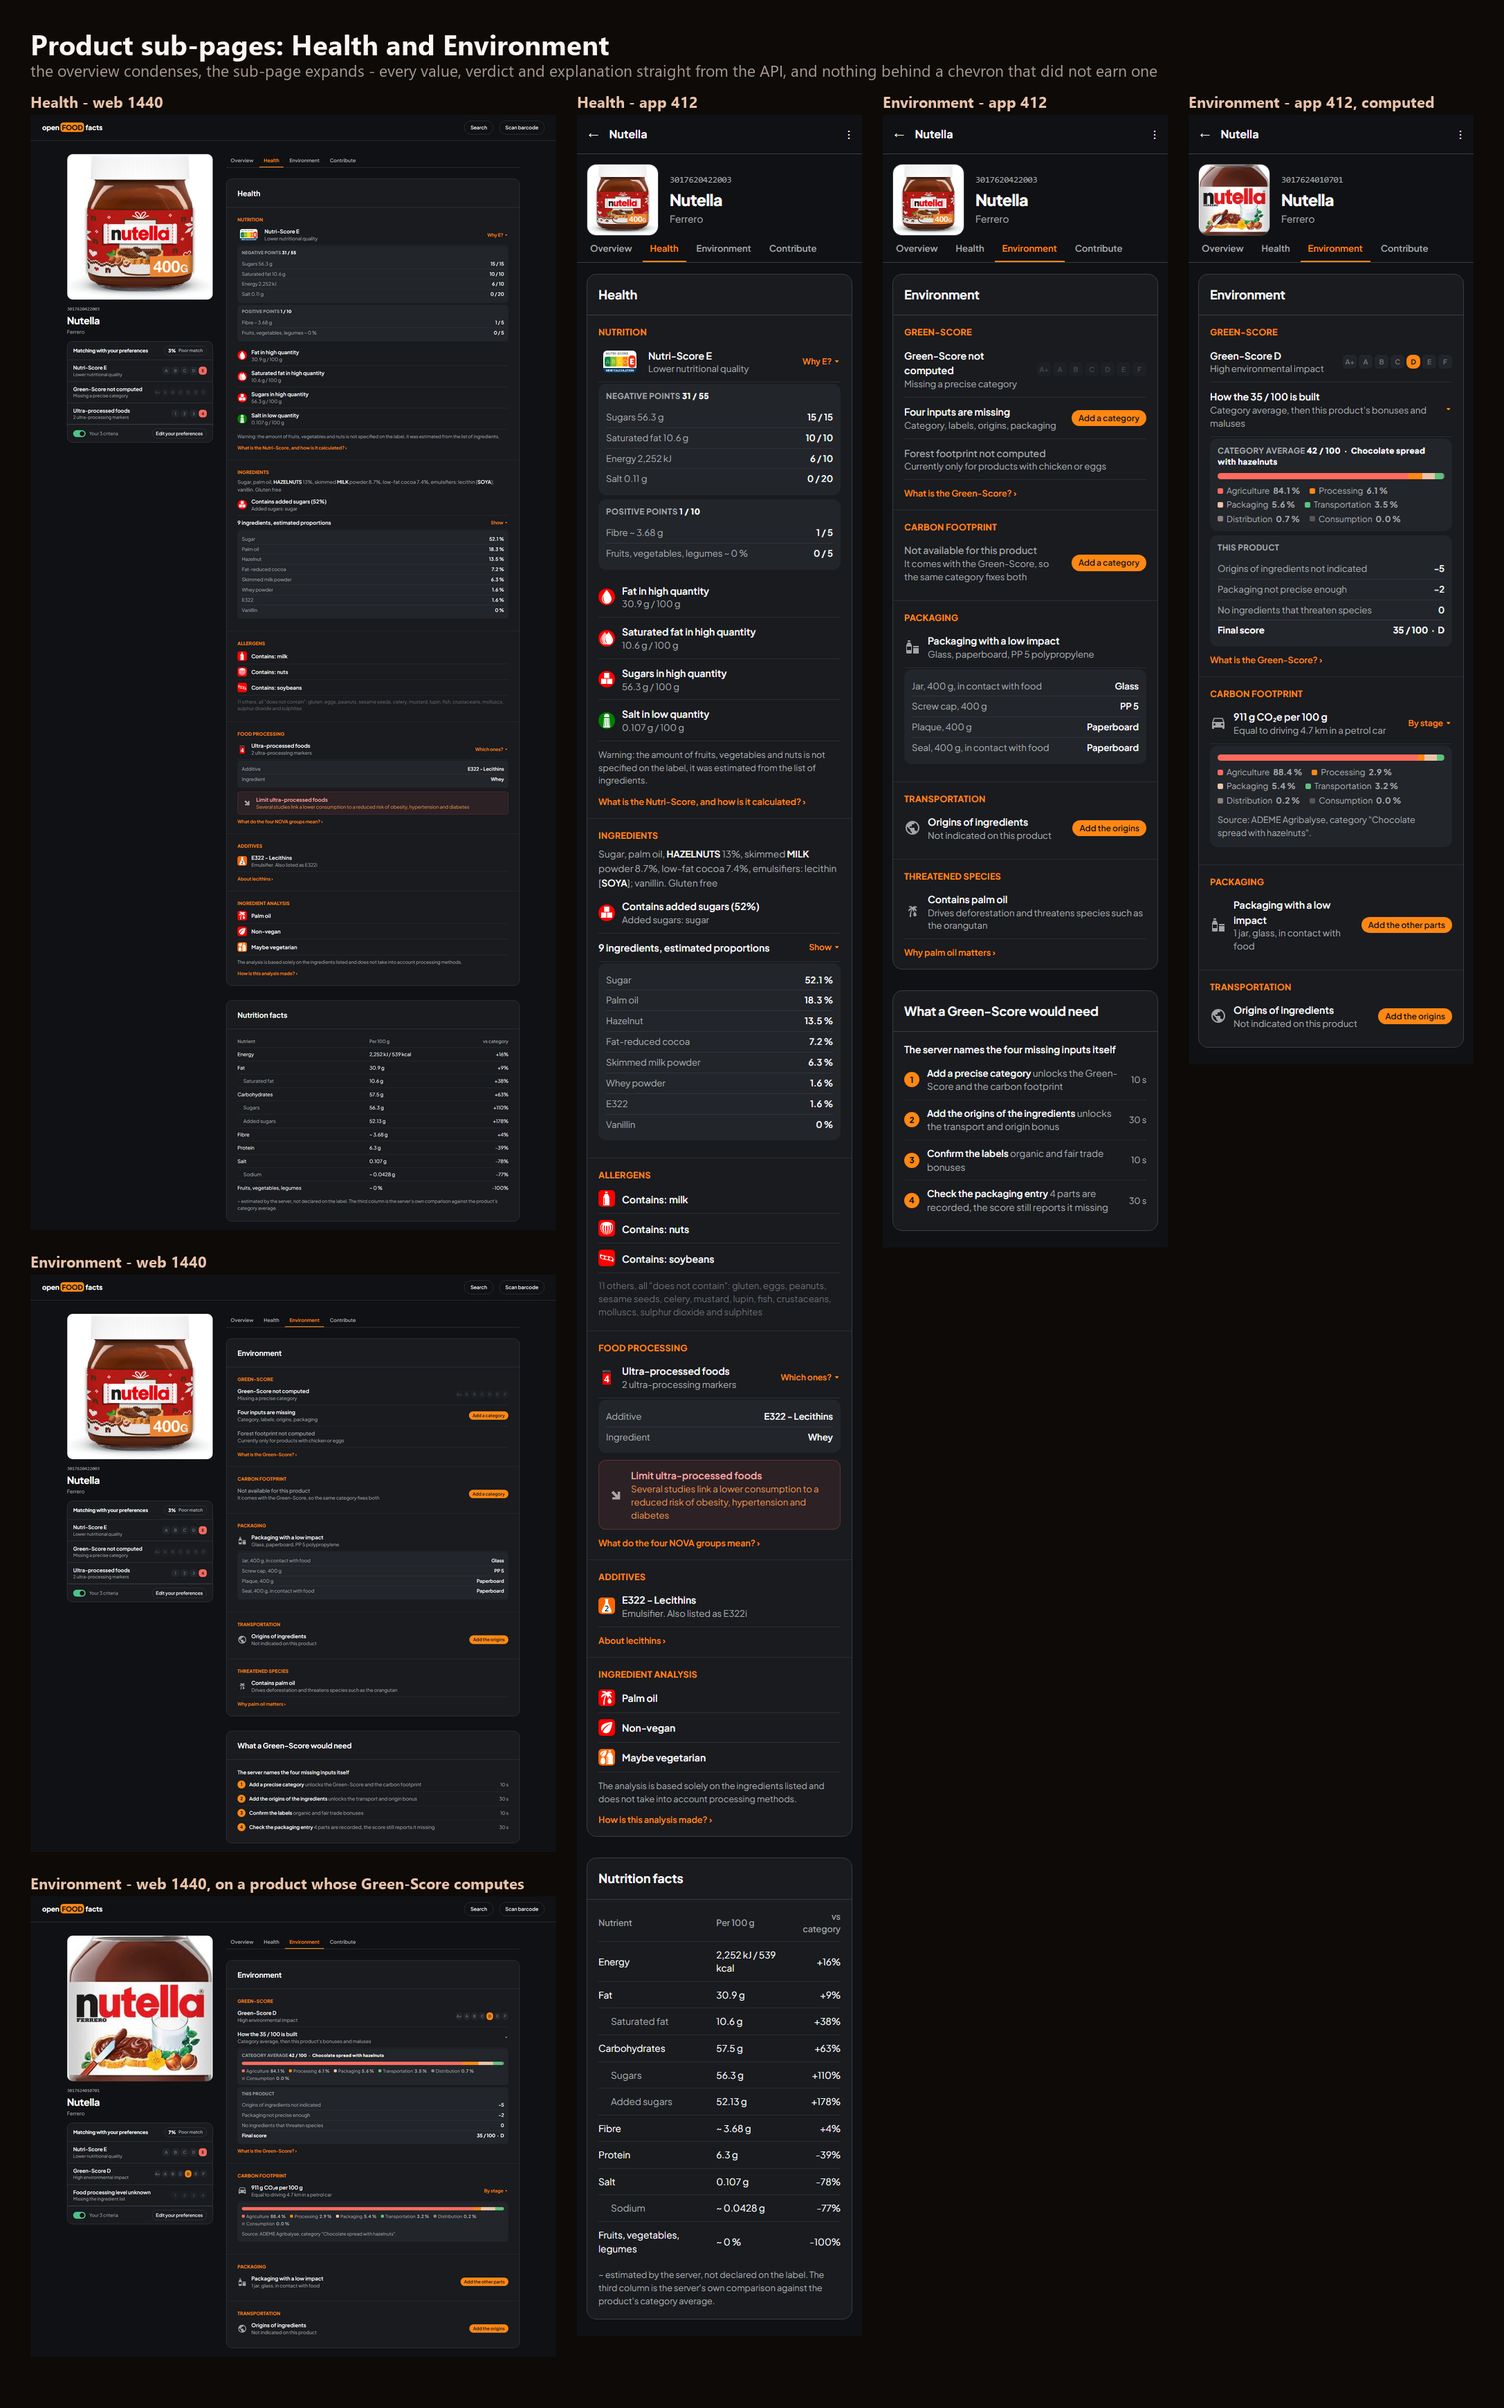
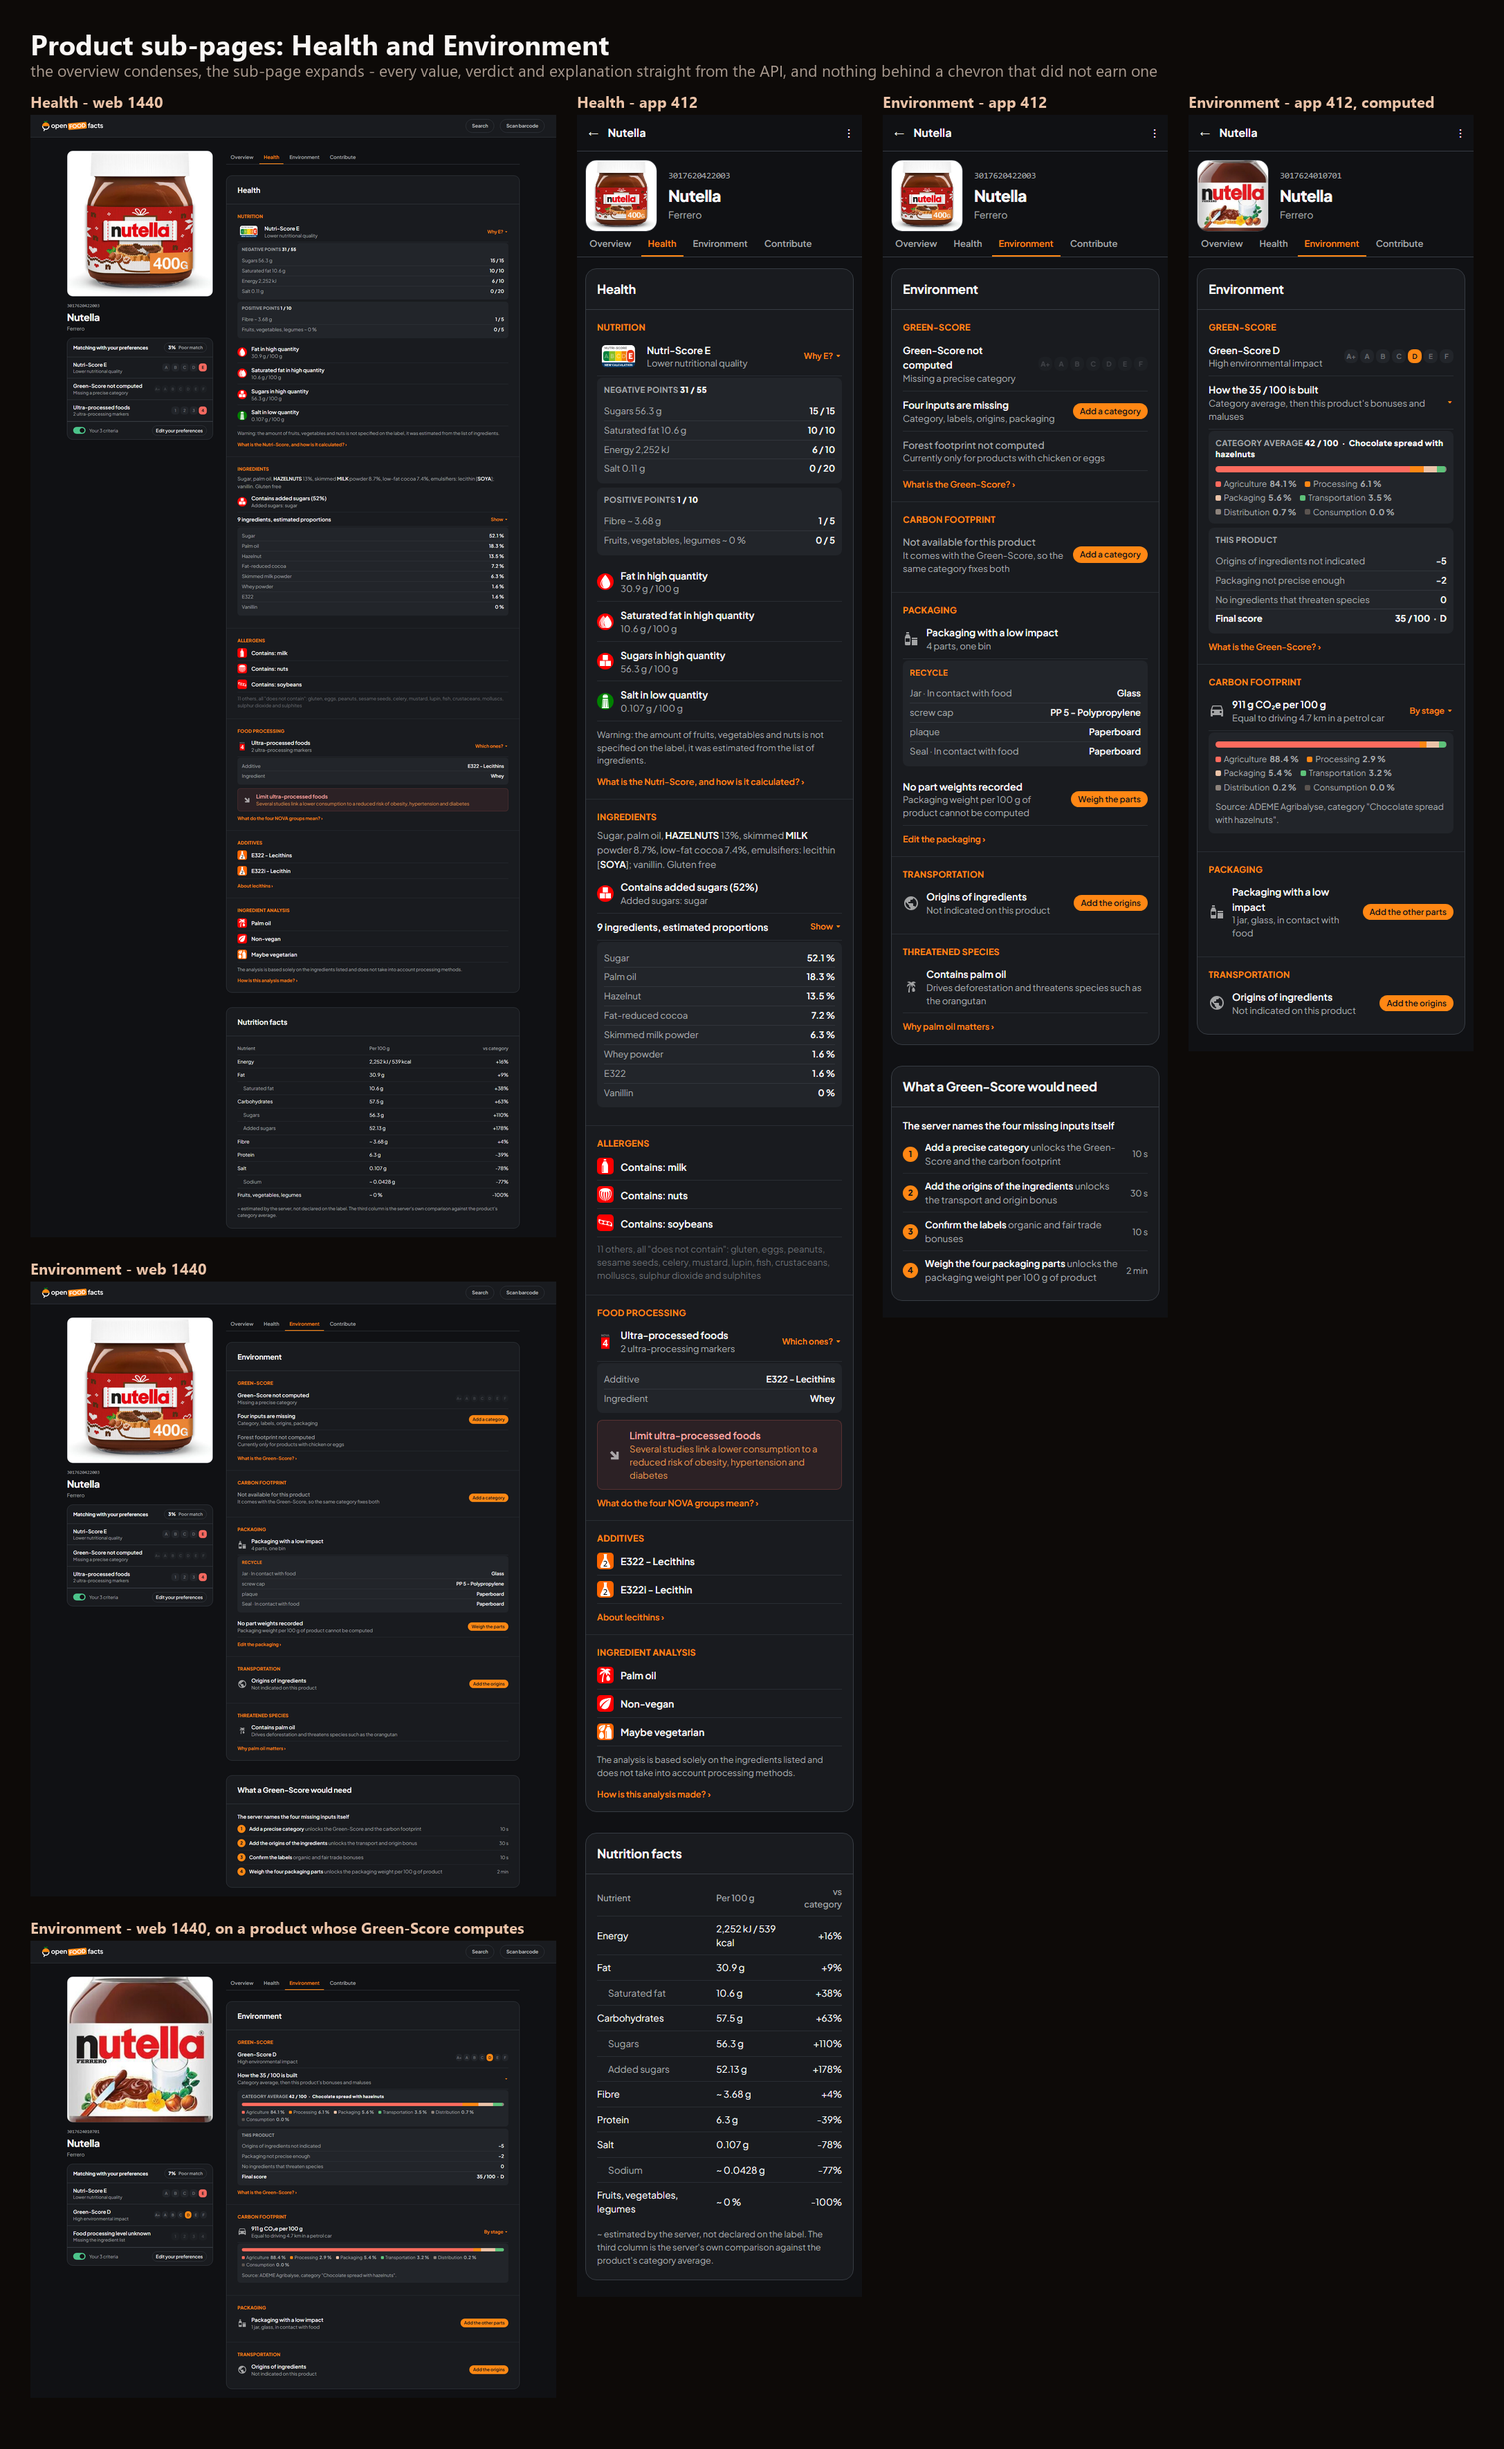
Packaging: fold the redrawn Environment pane into 02-product-subpages and drop the duplicate page

diff --git a/02-product-subpages/v2-environment.html b/02-product-subpages/v2-environment.html
@@ -103,16 +103,24 @@
           <div class="lbl">PACKAGING</div>
           <div class="row">
             <img class="ic mono" src="https://static.openfoodfacts.org/images/icons/dist/packaging.svg" alt="">
-            <span class="txt"><b>Packaging with a low impact</b><i>Glass, paperboard, PP 5 polypropylene</i></span>
+            <span class="txt"><b>Packaging with a low impact</b><i>4 parts, one bin</i></span>
           </div>
+
           <div class="box">
+            <span class="bin">recycle</span>
             <table class="mini">
-              <tr><td>Jar, 400 g, in contact with food</td><td>Glass</td></tr>
-              <tr><td>Screw cap, 400 g</td><td>PP 5</td></tr>
-              <tr><td>Plaque, 400 g</td><td>Paperboard</td></tr>
-              <tr><td>Seal, 400 g, in contact with food</td><td>Paperboard</td></tr>
+              <tr><td>Jar &middot; In contact with food</td><td>Glass</td></tr>
+              <tr><td>screw cap</td><td>PP 5 - Polypropylene</td></tr>
+              <tr><td>plaque</td><td>Paperboard</td></tr>
+              <tr><td>Seal &middot; In contact with food</td><td>Paperboard</td></tr>
             </table>
           </div>
+
+          <div class="row">
+            <span class="txt"><b>No part weights recorded</b><i>Packaging weight per 100 g of product cannot be computed</i></span>
+            <span class="fix">Weigh the parts</span>
+          </div>
+          <a class="learn" href="../23-packaging/packaging-edit.html">Edit the packaging &rsaquo;</a>
         </div>
 
         <div class="grp">
@@ -141,7 +149,8 @@
           <div class="task"><span class="num">1</span><span class="t"><b>Add a precise category</b> <i>unlocks the Green-Score and the carbon footprint</i></span><span class="time">10 s</span></div>
           <div class="task"><span class="num">2</span><span class="t"><b>Add the origins of the ingredients</b> <i>unlocks the transport and origin bonus</i></span><span class="time">30 s</span></div>
           <div class="task"><span class="num">3</span><span class="t"><b>Confirm the labels</b> <i>organic and fair trade bonuses</i></span><span class="time">10 s</span></div>
-          <div class="task"><span class="num">4</span><span class="t"><b>Check the packaging entry</b> <i>4 parts are recorded, the score still reports it missing</i></span><span class="time">30 s</span></div>
+          
+          <div class="task"><span class="num">4</span><span class="t"><b>Weigh the four packaging parts</b> <i>unlocks the packaging weight per 100 g of product</i></span><span class="time">2 min</span></div>
         </div>
       </div>
 

diff --git a/07-search/search-results-redline.html b/07-search/search-results-redline.html
@@ -99,7 +99,7 @@
 
       <div class="results">
 
-        <div class="res dim">
+        <div class="res faded">
           <div class="shot">
             <span class="badge bad">0%</span>
             <img src="https://images.openfoodfacts.org/images/products/316/893/001/0265/front_en.297.400.jpg" alt="">
@@ -119,7 +119,7 @@
           </div>
         </div>
 
-        <div class="res dim">
+        <div class="res faded">
           <div class="shot">
             <span class="badge bad">0%</span>
             <img src="https://images.openfoodfacts.org/images/products/730/040/048/1588/front_en.269.400.jpg" alt="">
@@ -139,7 +139,7 @@
           </div>
         </div>
 
-        <div class="res dim">
+        <div class="res faded">
           <div class="shot">
             <span class="badge bad">0%</span>
             <img src="https://images.openfoodfacts.org/images/products/304/109/006/3206/front_fr.156.400.jpg" alt="">
@@ -159,7 +159,7 @@
           </div>
         </div>
 
-        <div class="res dim">
+        <div class="res faded">
           <div class="shot">
             <span class="badge bad">0%</span>
             <img src="https://images.openfoodfacts.org/images/products/761/303/462/6844/front_fr.355.400.jpg" alt="">
@@ -179,7 +179,7 @@
           </div>
         </div>
 
-        <div class="res dim">
+        <div class="res faded">
           <div class="shot">
             <span class="badge bad">0%</span>
             <img src="https://images.openfoodfacts.org/images/products/739/437/661/6228/front_en.197.400.jpg" alt="">

diff --git a/index.html b/index.html
@@ -146,7 +146,7 @@ are still open. If you are implementing one, the screen's <code>design-brief.md<
 </section>
 <section>
 <h2>Packaging</h2>
-<p class="open">Open it at your own size: <a class="live" href="23-packaging/packaging-parts.html">packaging-parts.html</a><a class="live" href="23-packaging/packaging-full.html">packaging-full.html</a><a class="live" href="23-packaging/packaging-none.html">packaging-none.html</a><a class="live" href="23-packaging/packaging-edit.html">packaging-edit.html</a><a class="live" href="23-packaging/packaging-edit-sheet.html">packaging-edit-sheet.html</a></p>
+<p class="open">Open it at your own size: <a class="live" href="23-packaging/packaging-full.html">packaging-full.html</a><a class="live" href="23-packaging/packaging-none.html">packaging-none.html</a><a class="live" href="23-packaging/packaging-edit.html">packaging-edit.html</a><a class="live" href="23-packaging/packaging-edit-sheet.html">packaging-edit-sheet.html</a></p>
 <a href="img/POST-packaging.png"><img src="img/POST-packaging.png" alt="Packaging"></a>
 </section>
 <section>

diff --git a/09-settings/mock.css b/09-settings/mock.css
@@ -12,7 +12,7 @@
 .setrow .t i { font-style: normal; display: block; color: var(--muted); font-size: 12.5px; }
 .setrow .t em { font-style: normal; display: block; color: var(--peach); font-size: 12.5px; font-weight: 700; }
 .setrow .go2 { color: var(--faint); font-size: 17px; flex: none; }
-.setrow.dim .t b { color: var(--muted); }
+.setrow.faded .t b { color: var(--muted); }
 
 .setrow .ext { color: var(--muted); font-size: 13px; flex: none; }
 .setrow .mail { color: var(--muted); font-size: 13px; flex: none; }

diff --git a/04-profile/profile-out.html b/04-profile/profile-out.html
@@ -34,7 +34,7 @@
       <span class="pi">&#128202;</span>
       <span class="t"><b>Your contributions are counted</b><i>Products modified and prices added, across every device</i></span>
     </div>
-    <div class="setrow dim">
+    <div class="setrow faded">
       <span class="pi">&#128274;</span>
       <span class="t"><b>Scanning, search and food preferences need no account</b><i>They already work, and they stay on this phone</i></span>
     </div>

diff --git a/07-search/mock.css b/07-search/mock.css
@@ -104,8 +104,8 @@ h1 { font-size: 25px; font-weight: 800; letter-spacing: -.3px; }
 }
 .group .why1 { font-weight: 500; color: var(--muted); }
 .group .ch { margin-left: auto; font-size: 15px; color: var(--muted); }
-.res.dim .shot img { opacity: .55; }
-.res.dim .name, .res.dim .grades { opacity: .8; }
+.res.faded .shot img { opacity: .55; }
+.res.faded .name, .res.faded .grades { opacity: .8; }
 
 .rows { display: grid; }
 .row {

diff --git a/04-profile/mock.css b/04-profile/mock.css
@@ -52,7 +52,7 @@
 
 .setrow .t em { font-style: normal; display: block; color: var(--peach); font-size: 12.5px; font-weight: 700; }
 .setrow .go2 { color: var(--faint); font-size: 17px; flex: none; }
-.setrow.dim .t b { color: var(--muted); }
+.setrow.faded .t b { color: var(--muted); }
 
 .psearch { margin: 12px 12px 0; }
 

diff --git a/02-product-subpages/mock.css b/02-product-subpages/mock.css
@@ -142,3 +142,10 @@
 @media (max-width: 700px) {
   .scores { display: none; }
 }
+
+.box .bin {
+  display: block; font-size: 11.5px; font-weight: 700; letter-spacing: .4px;
+  text-transform: uppercase; color: var(--peach); margin-bottom: 8px;
+}
+
+.mini td:last-child { white-space: normal; }

diff --git a/23-packaging/packaging-full.html b/23-packaging/packaging-full.html
@@ -18,7 +18,7 @@
 </div>
 
 <div class="appbar">
-  <a class="ico" href="packaging-parts.html">&#8592;</a>
+  <a class="ico" href="../02-product-subpages/v2-environment.html">&#8592;</a>
   <span class="ttl">Nutella</span>
   <span class="ico">&#8942;</span>
 </div>
